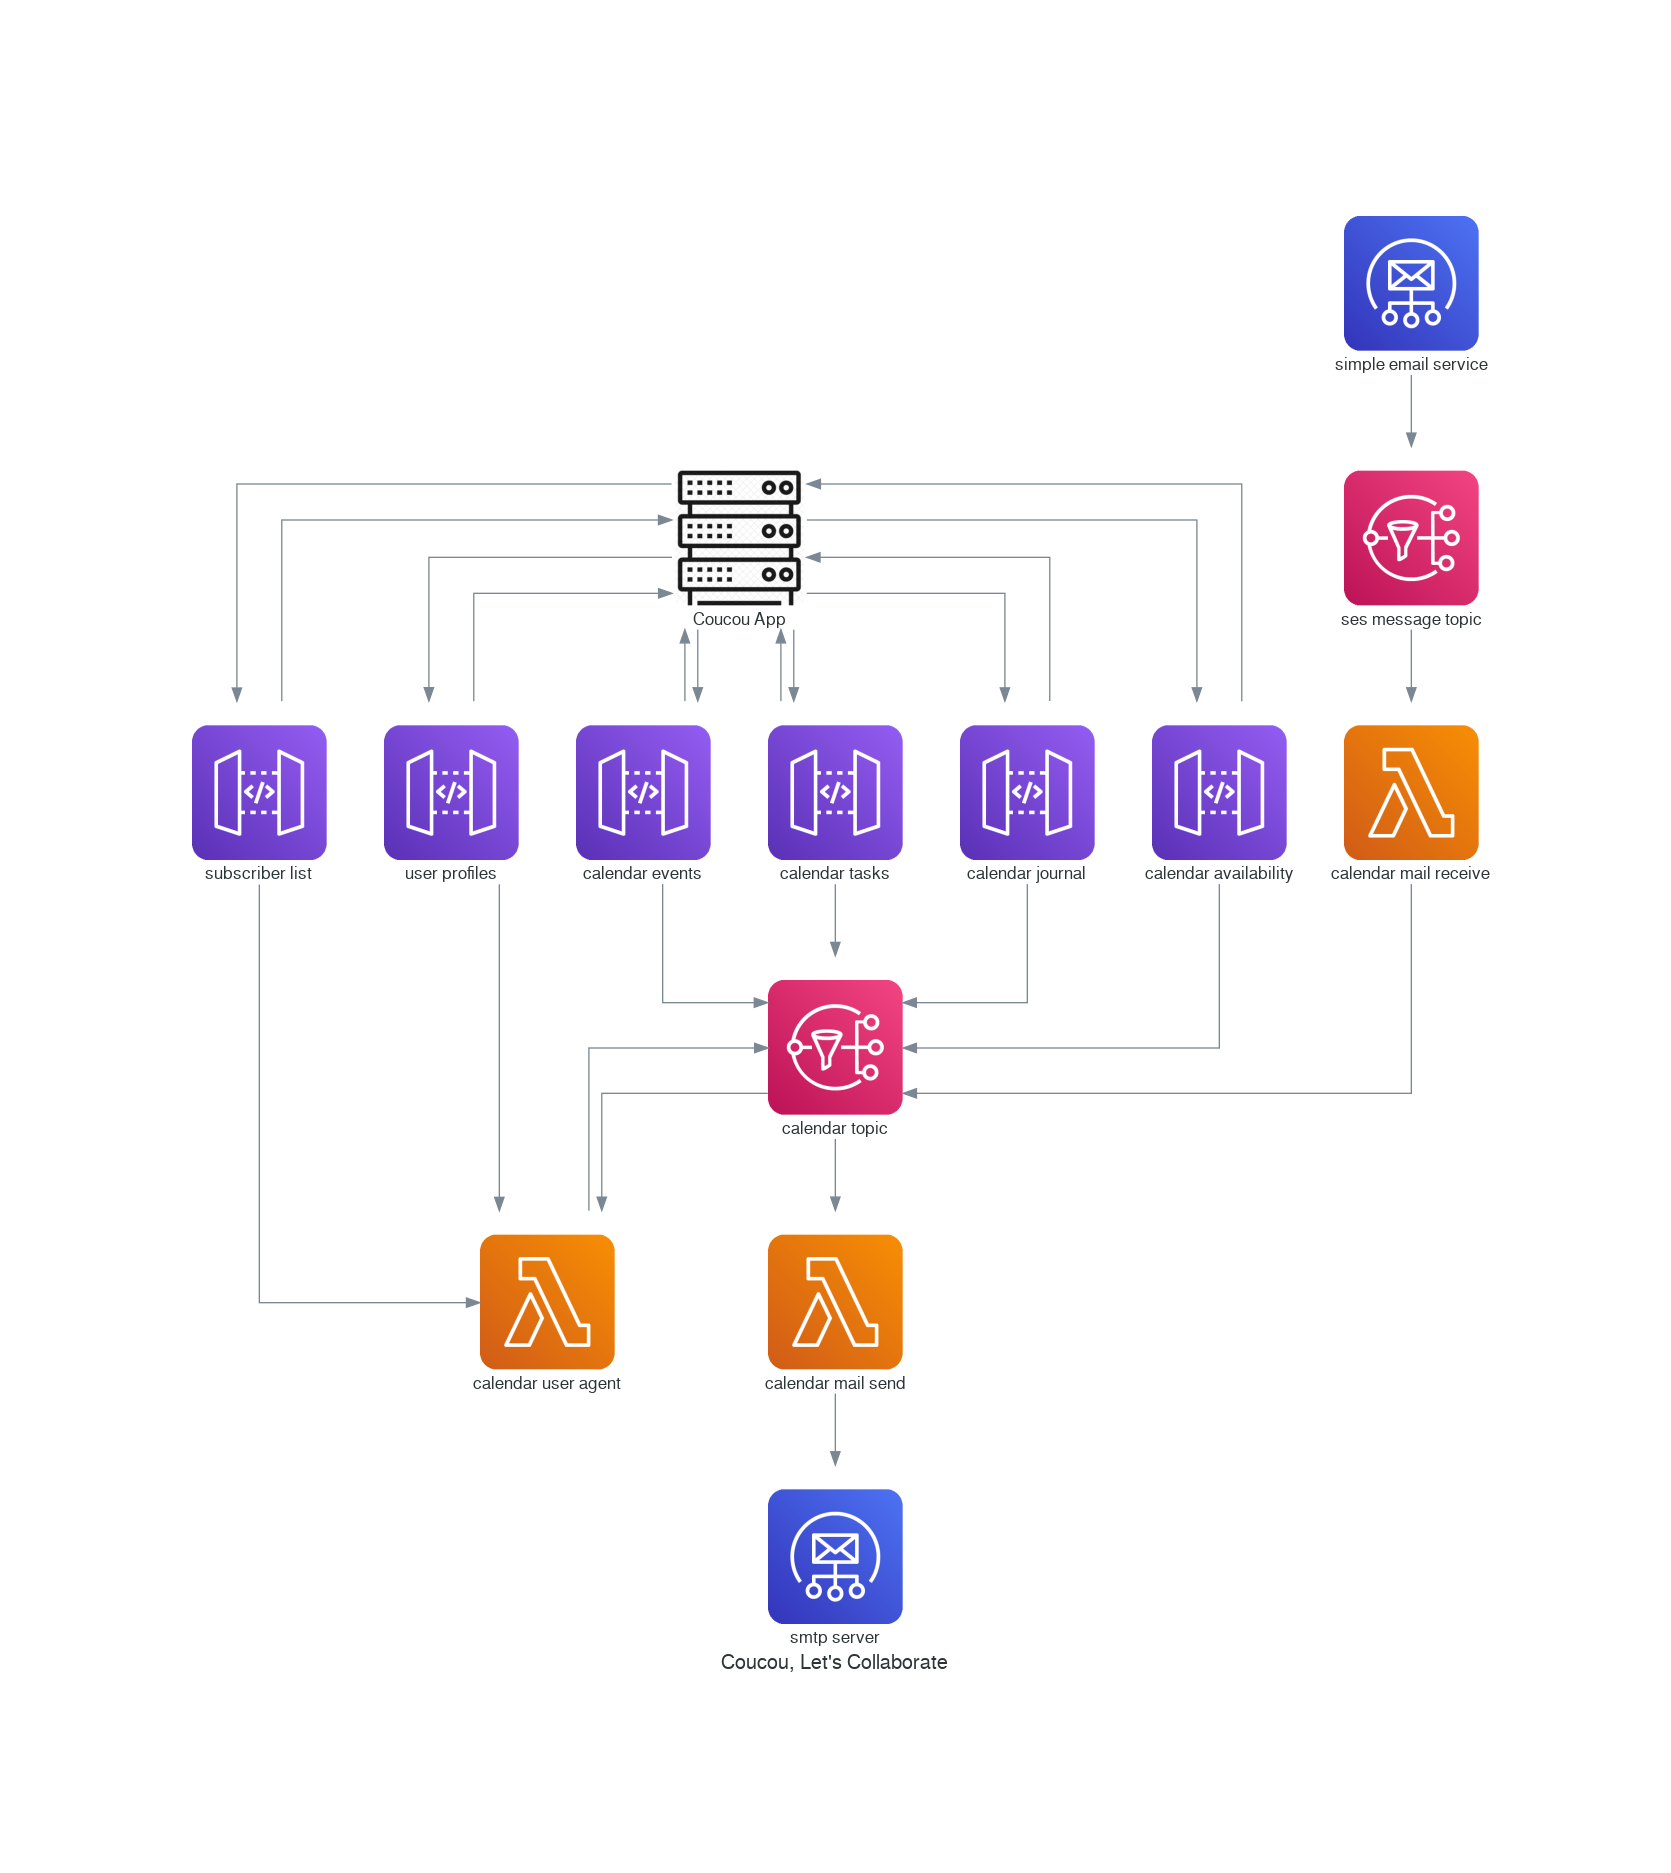
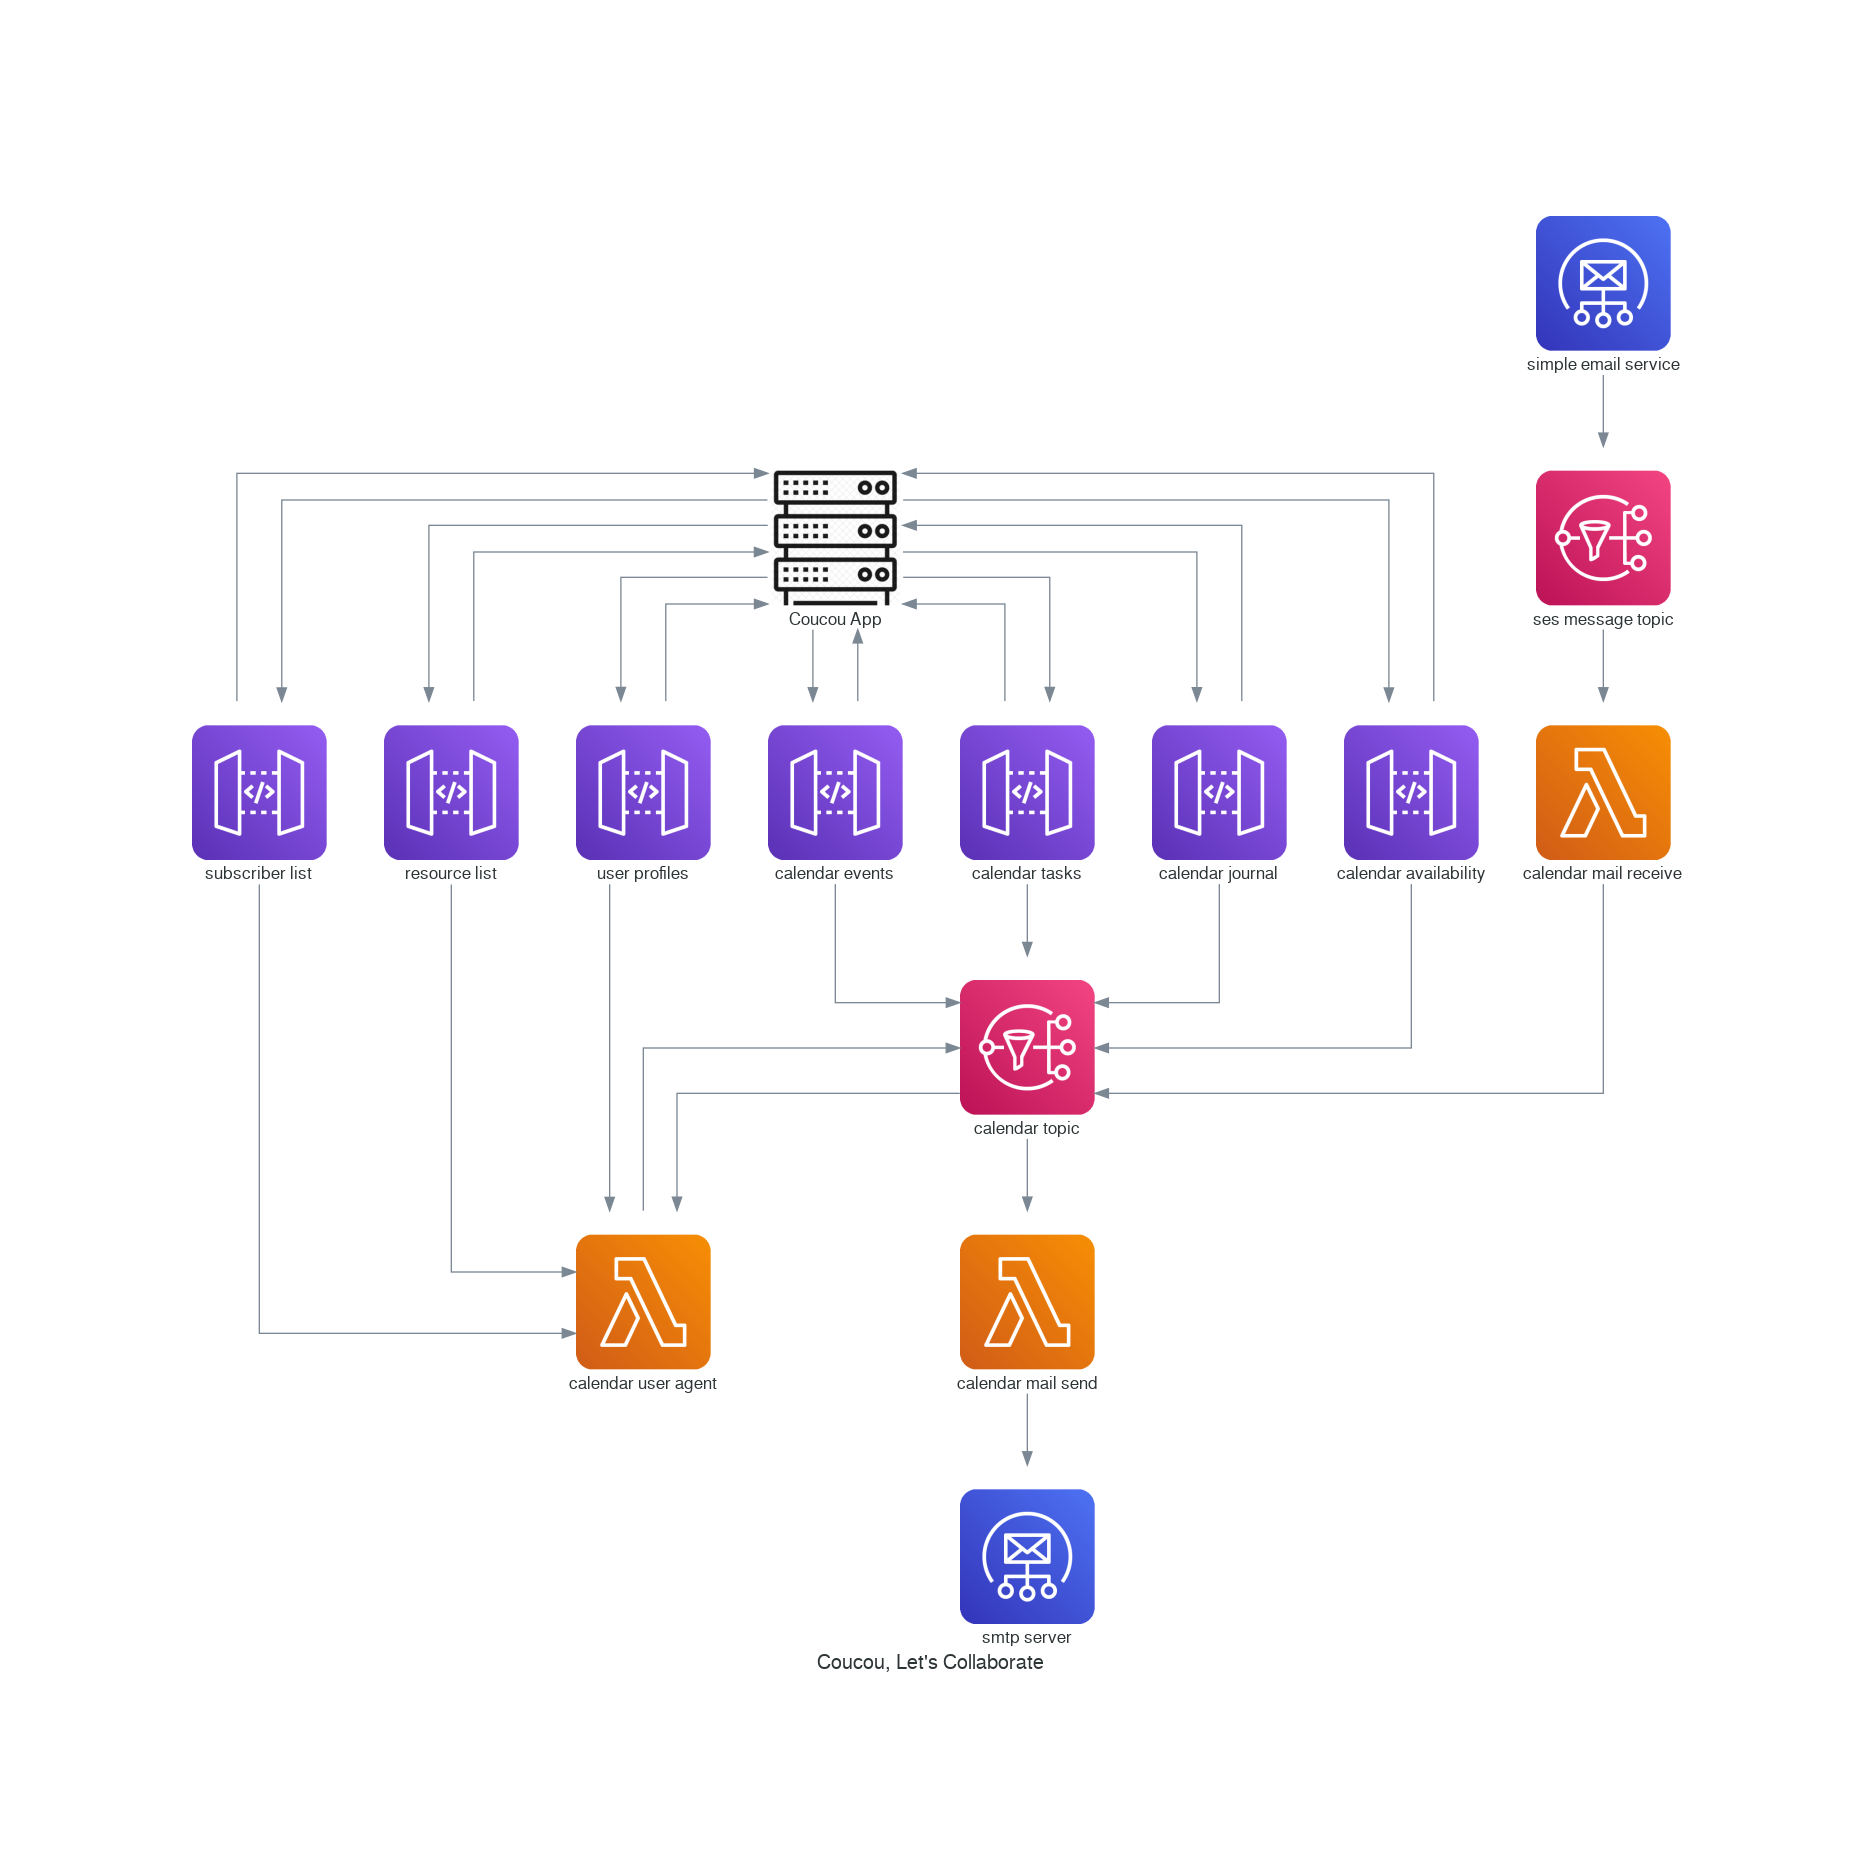
Updated design docs

diff --git a/diagram.py b/diagram.py
@@ -16,9 +16,11 @@ with Diagram("Coucou, Let's Collaborate", show=False, direction="TB"):
     journal = APIGateway("calendar journal")
     availability = APIGateway("calendar availability")
     subscribers = APIGateway("subscriber list")
+    resources = APIGateway("resource list")
     userprofile = APIGateway("user profiles")
 
     userprofile >> cocuou >> userprofile
+    resources >> cocuou >> resources
     events >> cocuou >> events
     tasks >> cocuou >> tasks
     journal >> cocuou >> journal
@@ -28,7 +30,7 @@ with Diagram("Coucou, Let's Collaborate", show=False, direction="TB"):
     topic = SNS("calendar topic")
     cua = Lambda("calendar user agent")
 
-    [userprofile, subscribers] >> cua
+    [userprofile, resources, subscribers] >> cua
     [events, tasks, journal, availability] >> topic >> cua >> topic
 
     ses = SES("simple email service")
